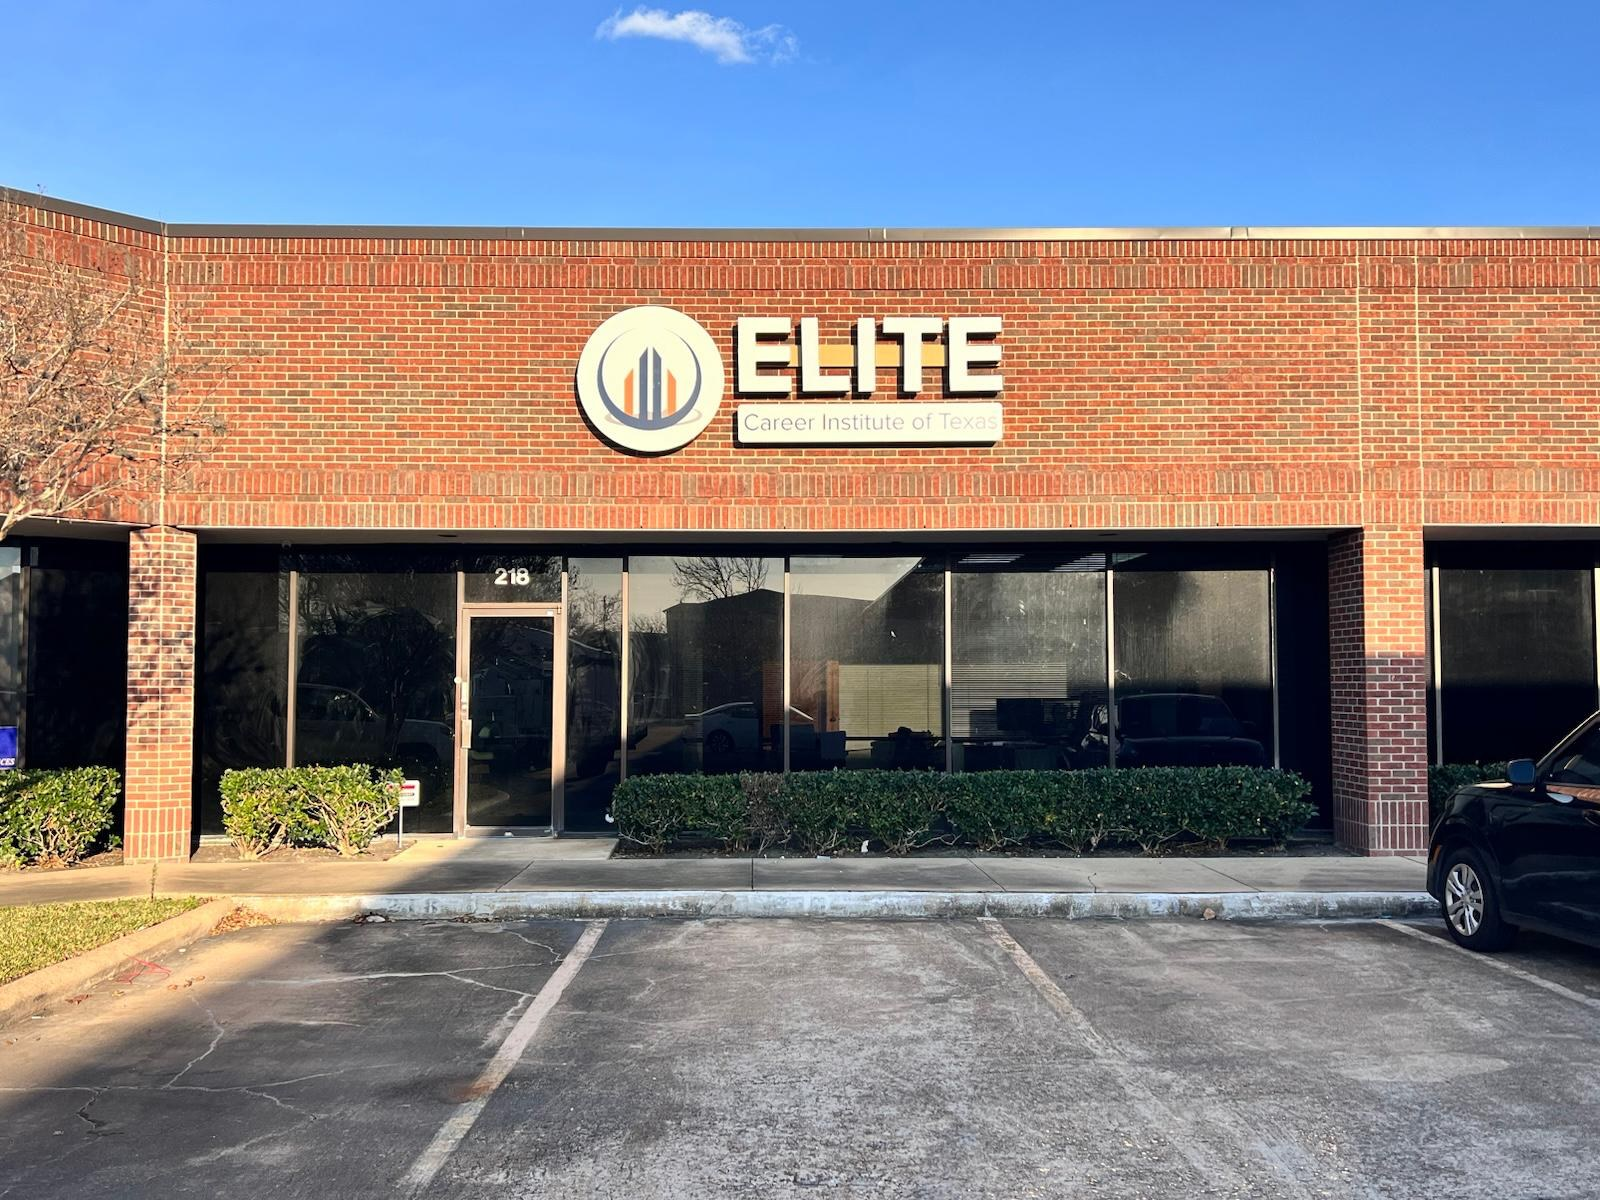
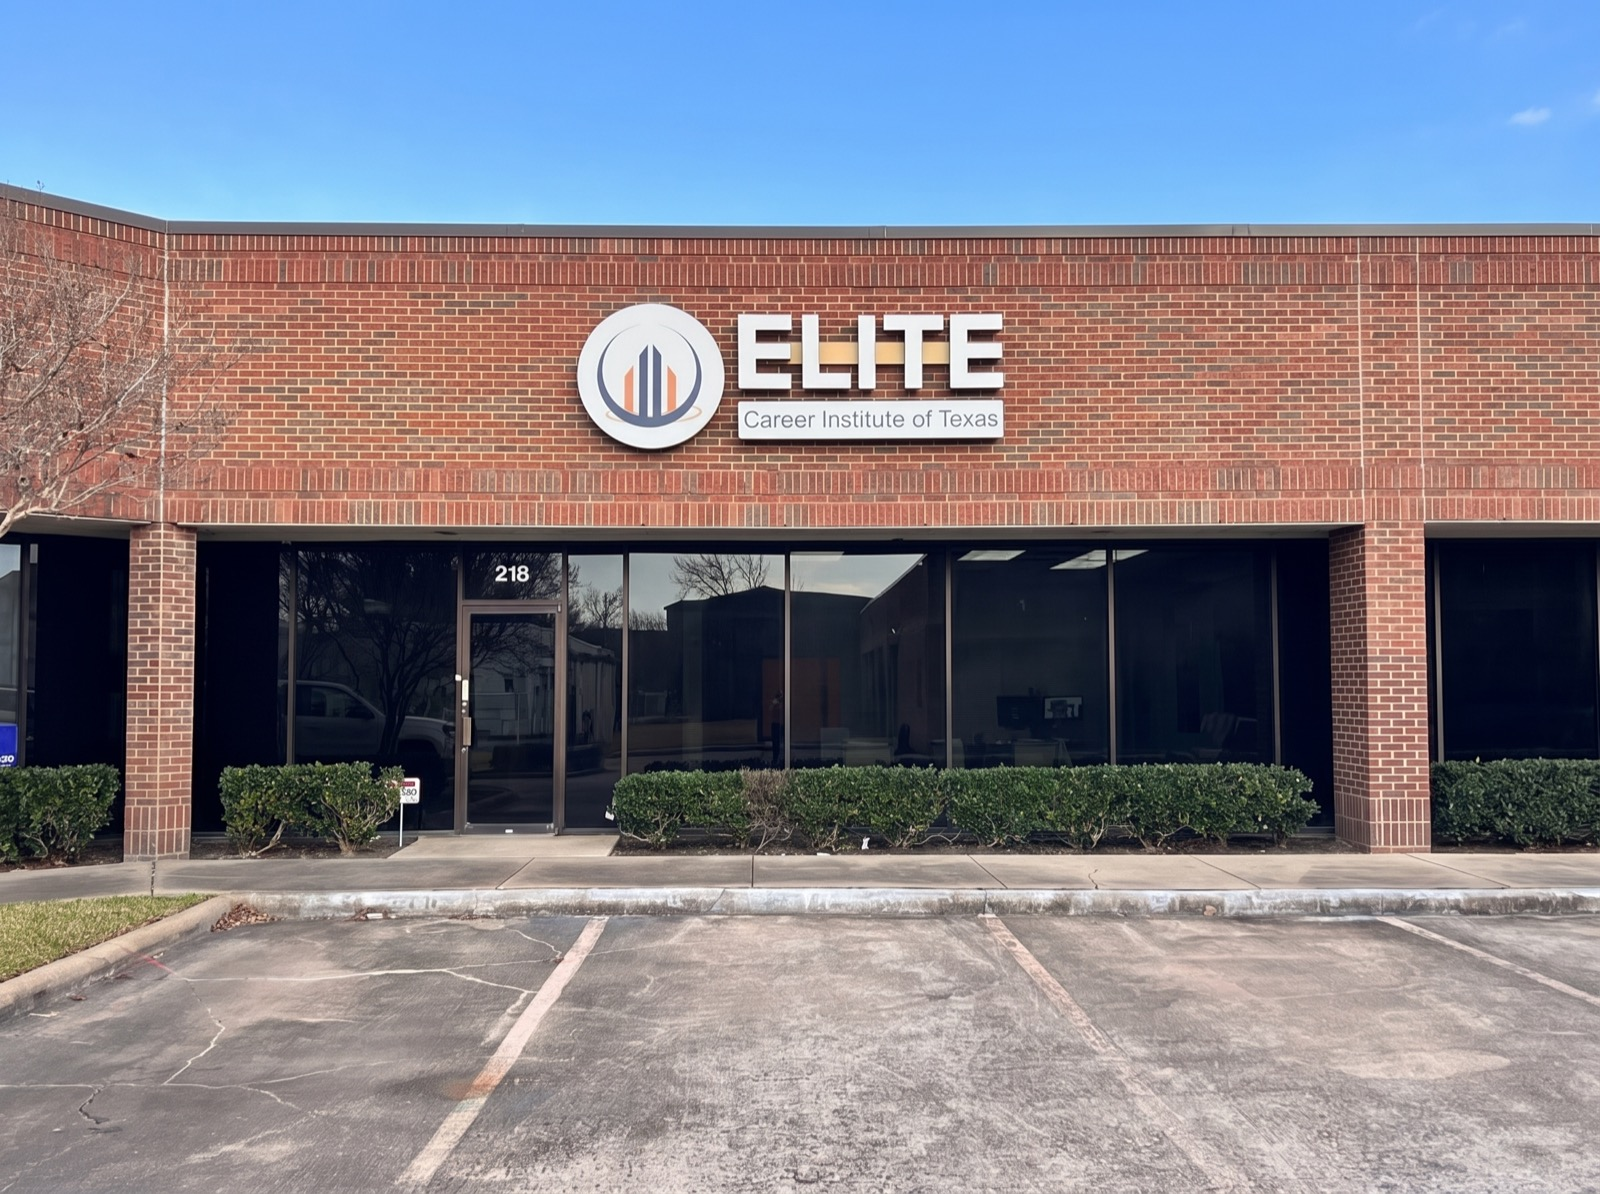
Gallery: rebuild as 21 polished AI renderings (image-to-image from real installs)
Every gallery image is now a clean, professional AI rendering generated from the
real install photo (Higgsfield nano_banana_pro, image-to-image — sign text/logo
kept faithful). Replaces the weak phone photos and the mixed concept set:
- Rendered from real photos: Slick City, Copper, Clear Lake, Emporium, JYS,
  S.S. Perfumes, Meerut, Vasquitas, New Promise, STF, Flex Fit, At Home pylon,
  Elite, Kirkwood monument, A&D/Turn-Key, plus Bridge 3.
- Kept the existing concept renderings (Luce, Bethune, Hashtag, Karma, Nautical).
21 images, image-only gallery, alt text + CollectionPage schema intact.

diff --git a/data/portfolio.js b/data/portfolio.js
@@ -1,15 +1,10 @@
-// Portfolio / "Our Work" — source of data for /portfolio.
+// Portfolio / "Our Work" — source of data for the image gallery (/portfolio and
+// the homepage). The gallery shows images only; this metadata powers each image's
+// alt text (a11y/SEO) and the /portfolio CollectionPage schema.
 //
-// HOW TO ADD A PROJECT: drop the image in /public/portfolio/ and add an entry
-// here. Keep `category` to one of CATEGORIES below so the filter works.
-//
-// `type`: "install" = a completed, photographed install. "concept" = a design
-// rendering / mockup (shown with a "Design concept" badge so it's never passed
-// off as a finished photo — per the portfolio PRD's honesty rules). Missing
-// `type` defaults to "install".
-//
-// Metadata comes from the company's own sign catalogue. Do NOT invent client
-// names, locations, or testimonials.
+// Images are polished AI renderings produced from real install photos (see
+// memory: hsc-ai-rendering-pipeline). To add a project: render the photo, drop
+// the jpg in /public/portfolio/, and add an entry here.
 
 export const CATEGORIES = [
   "All",
@@ -24,179 +19,33 @@ export const CATEGORIES = [
 ];
 
 const PORTFOLIO = [
-  // ---- Completed installs (photographed) ----
-  {
-    id: "slick-city-action-park",
-    title: "Slick City Action Park",
-    category: "Channel Letters",
-    signType: "Illuminated Logo & Dimensional Letters",
-    description:
-      "A large-format entrance sign with a custom illuminated logo and bold dimensional lettering, sized for high visibility at the building's main entry.",
-    imageSrc: "/portfolio/slickcity.jpg",
-    location: "Webster, TX",
-    industry: "Entertainment",
-    type: "install",
-    featured: true,
-  },
-  {
-    id: "emporium-games",
-    title: "Emporium Games",
-    category: "Channel Letters",
-    signType: "Illuminated Channel Letters & Window Graphics",
-    description:
-      "Bold front-lit channel letters paired with full-storefront printed window graphics, turning a nighttime exterior into a bright, eye-catching destination.",
-    imageSrc: "/portfolio/emporium.jpg",
-    location: "New Caney, TX",
-    industry: "Gaming & Retail",
-    type: "install",
-    featured: true,
-  },
-  {
-    id: "jys",
-    title: "JYS",
-    category: "Channel Letters",
-    signType: "Custom Illuminated Channel Letters",
-    description:
-      "A custom script channel-letter sign with integrated lighting and a clean mount, built for a bold building-top presence.",
-    imageSrc: "/portfolio/jys.jpg",
-    location: "Houston, TX",
-    industry: "Commercial",
-    type: "install",
-  },
-  {
-    id: "vasquitas-ice-cream",
-    title: "Vasquitas Ice Cream",
-    category: "Cabinet / Lightbox Signs",
-    signType: "Cabinet Sign & Window Graphics",
-    description:
-      "A full-color cabinet sign paired with matching window graphics, bringing a fun, recognizable brand right to the storefront.",
-    imageSrc: "/portfolio/vasquitas.jpg",
-    location: "Houston, TX",
-    industry: "Restaurant",
-    type: "install",
-  },
-  {
-    id: "new-promise-neuropathy",
-    title: "New Promise Neuropathy",
-    category: "Channel Letters",
-    signType: "Front-Lit Channel Letters & Logo",
-    description:
-      "Front-lit channel letters paired with a custom logo, mounted on a stone facade for a clean, professional look that stands out after dark.",
-    imageSrc: "/portfolio/newpromise.jpg",
-    location: "Missouri City, TX",
-    industry: "Medical",
-    type: "install",
-  },
-  {
-    id: "flex-fit-pilates",
-    title: "Flex Fit Pilates",
-    category: "Channel Letters",
-    signType: "Dimensional Building Letters",
-    description:
-      "Crisp dimensional letters on a multi-tenant retail building, keeping each storefront clearly identified day and night.",
-    imageSrc: "/portfolio/flexfit.jpg",
-    location: "Sugar Land, TX",
-    industry: "Fitness",
-    type: "install",
-  },
-  {
-    id: "elite-career-institute",
-    title: "Elite Career Institute of Texas",
-    category: "Channel Letters",
-    signType: "Dimensional Letters & Logo Medallion",
-    description:
-      "Dimensional letters and a round logo medallion mounted on brick, giving the entrance a polished, established feel.",
-    imageSrc: "/portfolio/elite.jpg",
-    location: "Houston, TX",
-    industry: "Education",
-    type: "install",
-  },
-
-  // ---- Additional projects ----
-  {
-    id: "luce-avenue-coffee",
-    title: "Luce Avenue Coffee Roasters",
-    category: "Channel Letters",
-    signType: "Halo-Lit Channel Letters & Logo",
-    description:
-      "Warm halo-lit channel letters with a custom geometric logo, glowing softly against a clean white facade for an upscale, inviting storefront.",
-    imageSrc: "/portfolio/luce.jpg",
-    industry: "Coffee & Cafe",
-    type: "concept",
-  },
-  {
-    id: "clear-lake-medical-plaza",
-    title: "Clear Lake Medical Plaza",
-    category: "Channel Letters",
-    signType: "Illuminated Channel Letters",
-    description:
-      "Front-lit channel letters with a sweeping accent element, designed for a clean and professional medical-plaza entrance.",
-    imageSrc: "/portfolio/clearlake.jpg",
-    industry: "Medical",
-    type: "concept",
-  },
-  {
-    id: "bethune-empowerment-center",
-    title: "Bethune Empowerment Center",
-    category: "Channel Letters",
-    signType: "Illuminated Channel Letters",
-    description:
-      "Large-scale illuminated lettering spanning a building canopy, designed for clear identification from across the lot.",
-    imageSrc: "/portfolio/empower.jpg",
-    industry: "Community",
-    type: "concept",
-  },
-  {
-    id: "hashtag-india",
-    title: "Hashtag India",
-    category: "Channel Letters",
-    signType: "Illuminated Channel Letters & Logo",
-    description:
-      "Dual-face illuminated channel letters with a custom logo, wrapping a corner building for visibility from both directions.",
-    imageSrc: "/portfolio/hashtag.jpg",
-    industry: "Restaurant",
-    type: "concept",
-  },
-  {
-    id: "karma-kolache-macarons",
-    title: "Karma Kolache & Macarons",
-    category: "Channel Letters",
-    signType: "Dimensional Letters",
-    description:
-      "Bold dimensional letters on a brick tower facade, balancing a strong primary name with a clean secondary line.",
-    imageSrc: "/portfolio/karma.jpg",
-    industry: "Bakery",
-    type: "concept",
-  },
-  {
-    id: "nautical-bowls",
-    title: "Nautical Bowls",
-    category: "Channel Letters",
-    signType: "Channel Letters & Custom Logo",
-    description:
-      "Channel letters with a custom anchor logo and a tidy tagline lockup, sized to read cleanly against brick.",
-    imageSrc: "/portfolio/nautica.jpg",
-    industry: "Restaurant",
-    type: "concept",
-  },
-  {
-    id: "turn-key-motorsport",
-    title: "Turn-Key Motorsport",
-    category: "Channel Letters",
-    signType: "Channel Letters & Service Callout",
-    description:
-      "Bold channel letters paired with a simple service callout, sized for a multi-bay automotive storefront.",
-    imageSrc: "/portfolio/turnkey.jpg",
-    industry: "Automotive",
-    type: "concept",
-  },
+  { id: "slick-city-action-park", title: "Slick City Action Park", category: "Channel Letters", signType: "Illuminated Logo & Dimensional Letters", description: "A large-format entrance sign with a custom illuminated logo and bold dimensional lettering.", imageSrc: "/portfolio/slickcity.jpg", location: "Webster, TX", industry: "Entertainment", featured: true },
+  { id: "copper-espresso-bar", title: "Copper Espresso Bar", category: "Channel Letters", signType: "Illuminated Channel Letters", description: "Crisp white channel letters on two faces of the building, lighting up a drive-thru coffee bar.", imageSrc: "/portfolio/copper.jpg", location: "Houston, TX", industry: "Coffee & Cafe", featured: true },
+  { id: "clear-lake-medical-plaza", title: "Clear Lake Medical Plaza", category: "Channel Letters", signType: "Illuminated Channel Letters", description: "Front-lit channel letters with a sweeping accent over a brick medical-plaza entrance.", imageSrc: "/portfolio/clearlake.jpg", location: "Houston, TX", industry: "Medical", featured: true },
+  { id: "emporium-games", title: "Emporium Games", category: "Channel Letters", signType: "Illuminated Channel Letters & Window Graphics", description: "Bold front-lit channel letters paired with full-storefront printed window graphics.", imageSrc: "/portfolio/emporium.jpg", location: "New Caney, TX", industry: "Gaming & Retail", featured: true },
+  { id: "jys", title: "JYS", category: "Channel Letters", signType: "Custom Illuminated Channel Letters", description: "A custom script channel-letter sign with integrated lighting and a clean mount.", imageSrc: "/portfolio/jys.jpg", location: "Houston, TX", industry: "Commercial" },
+  { id: "ss-perfumes", title: "S.S. Perfumes", category: "Channel Letters", signType: "Illuminated Channel Letters & Cabinet", description: "Illuminated channel letters over a red cabinet tagline on a brick storefront fascia.", imageSrc: "/portfolio/ssperfumes.jpg", location: "Houston, TX", industry: "Retail" },
+  { id: "meerut-bbq-house", title: "Meerut BBQ House", category: "Channel Letters", signType: "Dimensional Channel Letters & Window Graphics", description: "Bold yellow dimensional channel letters with a custom logo, plus matching window graphics.", imageSrc: "/portfolio/meerut.jpg", location: "Houston, TX", industry: "Restaurant" },
+  { id: "vasquitas-ice-cream", title: "Vasquitas Ice Cream", category: "Cabinet / Lightbox Signs", signType: "Cabinet Sign & Window Graphics", description: "A full-color cabinet sign paired with matching window graphics.", imageSrc: "/portfolio/vasquitas.jpg", location: "Houston, TX", industry: "Restaurant" },
+  { id: "new-promise-neuropathy", title: "New Promise Neuropathy", category: "Channel Letters", signType: "Front-Lit Channel Letters & Logo", description: "Front-lit channel letters paired with a custom logo on a stone facade.", imageSrc: "/portfolio/newpromise.jpg", location: "Missouri City, TX", industry: "Medical" },
+  { id: "stf-houston", title: "STF Houston", category: "Channel Letters", signType: "Illuminated Wall Sign", description: "Illuminated channel letters and a round logo mark on a wood-look feature wall.", imageSrc: "/portfolio/stf.jpg", location: "Houston, TX", industry: "Commercial" },
+  { id: "flex-fit-pilates", title: "Flex Fit Pilates", category: "Channel Letters", signType: "Dimensional Building Letters", description: "Crisp dimensional letters on a multi-tenant retail building.", imageSrc: "/portfolio/flexfit.jpg", location: "Sugar Land, TX", industry: "Fitness" },
+  { id: "at-home-shopping-center", title: "At Home Shopping Center", category: "Monument & Pylon Signs", signType: "Multi-Tenant Pylon Sign", description: "A tall pylon sign with individual illuminated tenant panels facing a high-traffic road.", imageSrc: "/portfolio/athome.jpg", location: "Houston, TX", industry: "Retail Center" },
+  { id: "elite-career-institute", title: "Elite Career Institute of Texas", category: "Channel Letters", signType: "Dimensional Letters & Logo Medallion", description: "Dimensional letters and a round logo medallion mounted on brick.", imageSrc: "/portfolio/elite.jpg", location: "Houston, TX", industry: "Education" },
+  { id: "kirkwood-tech-center", title: "Kirkwood Tech Center", category: "Monument & Pylon Signs", signType: "Monument Sign with Tenant Directory", description: "A brick monument sign with a stacked tenant directory for an office park.", imageSrc: "/portfolio/kirkwood.jpg", location: "Houston, TX", industry: "Office" },
+  { id: "ad-turnkey-motorsport", title: "A&D Promotions & Turn-Key Motorsport", category: "Channel Letters", signType: "Dimensional Storefront Letters", description: "Dimensional storefront letters for two businesses sharing a custom-fabrication building.", imageSrc: "/portfolio/adturnkey.jpg", location: "Houston, TX", industry: "Automotive & Events" },
+  { id: "luce-avenue-coffee", title: "Luce Avenue Coffee Roasters", category: "Channel Letters", signType: "Halo-Lit Channel Letters & Logo", description: "Warm halo-lit channel letters with a custom geometric logo against a clean white facade.", imageSrc: "/portfolio/luce.jpg", location: "Houston, TX", industry: "Coffee & Cafe" },
+  { id: "bethune-empowerment-center", title: "Bethune Empowerment Center", category: "Channel Letters", signType: "Illuminated Channel Letters", description: "Large-scale illuminated lettering spanning a building canopy for clear identification.", imageSrc: "/portfolio/empower.jpg", location: "Houston, TX", industry: "Community" },
+  { id: "hashtag-india", title: "Hashtag India", category: "Channel Letters", signType: "Illuminated Channel Letters & Logo", description: "Dual-face illuminated channel letters with a custom logo wrapping a corner building.", imageSrc: "/portfolio/hashtag.jpg", location: "Houston, TX", industry: "Restaurant" },
+  { id: "karma-kolache-macarons", title: "Karma Kolache & Macarons", category: "Channel Letters", signType: "Dimensional Letters", description: "Bold dimensional letters on a brick tower facade with a clean secondary line.", imageSrc: "/portfolio/karma.jpg", location: "Houston, TX", industry: "Bakery" },
+  { id: "nautical-bowls", title: "Nautical Bowls", category: "Channel Letters", signType: "Channel Letters & Custom Logo", description: "Channel letters with a custom anchor logo and a tidy tagline lockup against brick.", imageSrc: "/portfolio/nautica.jpg", location: "Houston, TX", industry: "Restaurant" },
+  { id: "bridge-3", title: "Bridge 3", category: "Channel Letters", signType: "Illuminated Channel Letters & Logo", description: "Illuminated channel letters and a custom logo for a Mission Ready Learning Lab storefront.", imageSrc: "/portfolio/bridge3.jpg", location: "Houston, TX", industry: "Education" },
 ];
 
 export function getPortfolio() {
   return PORTFOLIO;
 }
 
-// Only show category chips that actually have projects (plus "All").
 export function getActiveCategories() {
   const present = new Set(PORTFOLIO.map((p) => p.category));
   return CATEGORIES.filter((c) => c === "All" || present.has(c));
